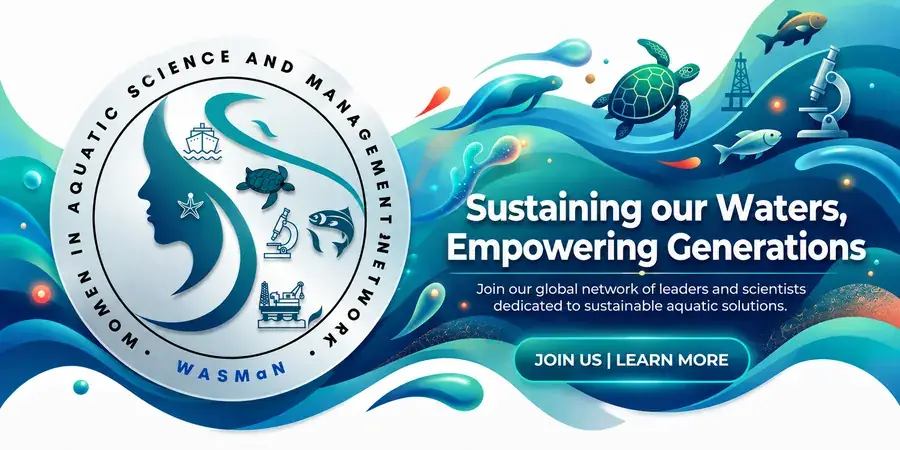
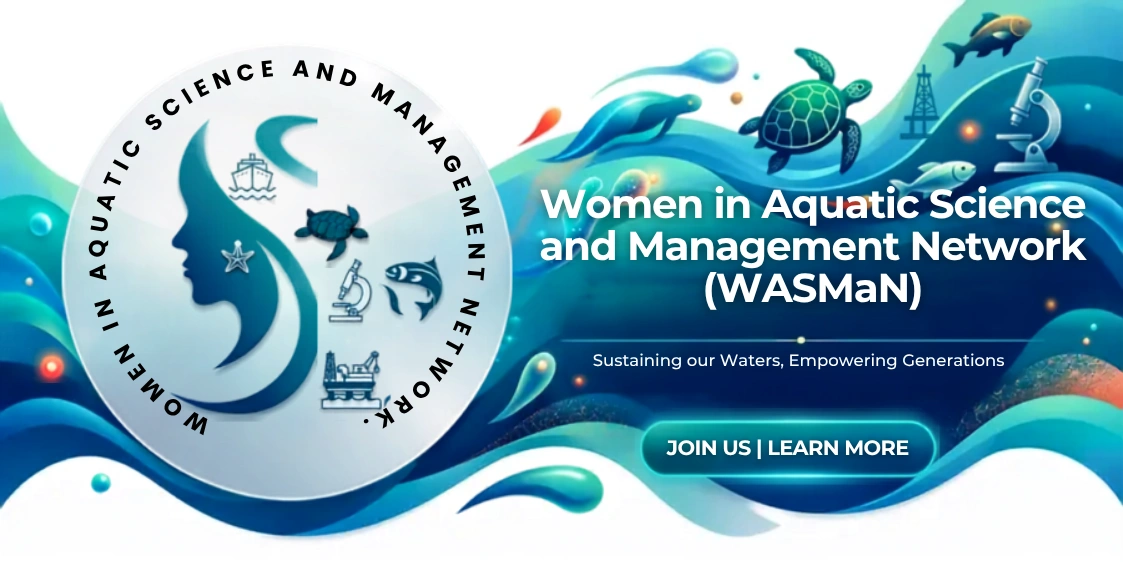
hero-carousel implementation

diff --git a/public/css/welcome.css b/public/css/welcome.css
@@ -94,6 +94,7 @@ img {
     width: 100%;
     min-height: 760px;
     overflow: hidden;
+   
 }
 
 .hero-picture {
@@ -102,13 +103,14 @@ img {
     display: block;
     width: 100%;
     height: 100%;
+    /* padding: 2%; */
 }
 
 .hero-image {
     width: 100%;
     height: 100%;
     max-width: none;
-    object-fit: cover;
+    /* object-fit: cover; */
     object-position: center;
     display: block;
 }
@@ -248,7 +250,7 @@ img {
 .swiper-slide {
    
 
-    border-radius: var(--radius-lg);
+    /* border-radius: var(--radius-lg); */
 
     overflow: hidden;
 }
@@ -317,7 +319,7 @@ img {
 
     margin-bottom: 22px;
 
-    border-radius: 17px;
+    /* border-radius: 17px; */
 
     background: rgba(79,210,196,0.15);
 

diff --git a/resources/views/welcome.blade.php b/resources/views/welcome.blade.php
@@ -49,19 +49,45 @@
 ========================================================= --}}
 
 <section class="hero-banner">
-    <picture class="hero-picture">
-        <source
-            media="(max-width: 650px)"
-            srcset="{{ versioned_asset('pics_vids/home_page_banner_mobile.webp') }}"
-            type="image/webp">
-        <img
-            src="{{ versioned_asset('pics_vids/home_page_banner.webp') }}"
-            alt="WASMaN — Women in Aquatic Science and Management Network"
-            class="hero-image"
-            fetchpriority="high"
-            loading="eager"
-            decoding="async">
-    </picture>
+   
+
+ <div class="swiper mySwiper">
+
+            <div class="swiper-wrapper">
+            
+            <div class="swiper-slide knowledge-card knowledge-card-light">
+                <picture>
+                    <source media="(max-width: 650px)" srcset="{{ versioned_asset('pics_vids/home_page_banner_mobile.webp') }}" type="image/webp">
+                    <img src="{{ versioned_asset('pics_vids/home_page_banner_mobile.webp') }}" alt="WASMaN knowledge bite graphic" class="wasman-logo" loading="lazy" decoding="async" width="1400" height="788">
+                </picture>
+            </div>
+
+            <div class="swiper-slide knowledge-card knowledge-card-light">
+                <picture>
+                    <source media="(max-width: 650px)" srcset="{{ versioned_asset('pics_vids/kn2_mobile.webp') }}" type="image/webp">
+                    <img src="{{ versioned_asset('pics_vids/kn2.webp') }}" alt="WASMaN knowledge bite graphic" class="wasman-logo" loading="lazy" decoding="async" width="1400" height="788">
+                </picture>
+            </div>
+
+            <div class="swiper-slide knowledge-card knowledge-card-soft">
+                <picture>
+                    <source media="(max-width: 650px)" srcset="{{ versioned_asset('pics_vids/kn3_mobile.webp') }}" type="image/webp">
+                    <img src="{{ versioned_asset('pics_vids/kn3.webp') }}" alt="WASMaN knowledge bite graphic" class="wasman-logo" loading="lazy" decoding="async" width="1400" height="788">
+                </picture>
+            </div>
+
+            </div>
+
+            <div class="swiper-button-prev"><</div>
+            <div class="swiper-button-next">></div>
+            <div class="swiper-pagination"></div>
+
+        </div>
+
+
+
+
+
 </section>
 
 
@@ -95,155 +121,12 @@
         </div>
 
 
-        <div class="swiper mySwiper">
+       
 
-            <div class="swiper-wrapper">
-
-                <div class="swiper-slide knowledge-card knowledge-card-primary">
-
-                    <!-- <div class="knowledge-card-content">
-
-                        <div class="knowledge-icon">
-                            <i class="fa-solid fa-book-open-reader"></i>
-                        </div>
-
-                        <span class="knowledge-kicker">
-                            Women In Science
-                        </span>
-
-                        <h3>
-                            Knowledge Bite
-                        </h3>
-
-                        <p>
-                            Women in aquatic science are making a difference.
-                            Through research, mentorship and community engagement,
-                            WASMaN members are promoting the sustainable management
-                            of aquatic resources and inspiring more girls and women
-                            to pursue careers in science and environmental conservation.
-                        </p>
-
-                    </div> -->
-<img src="{{ versioned_asset('pics_vids/kn1.svg') }}" alt="WASMaN knowledge and awareness graphic" class="wasman-logo" loading="lazy" decoding="async">
-
-
-                </div>
-
-
-                <div class="swiper-slide knowledge-card knowledge-card-light">
-
-                    <!-- <div class="knowledge-card-content">
-
-                        <div class="knowledge-icon">
-                            <i class="fa-solid fa-lightbulb"></i>
-                        </div>
-
-                        <span class="knowledge-kicker">
-                            Did You Know?
-                        </span>
-
-                        <h3>
-                            Coastal Ecosystems Matter
-                        </h3>
-
-                        <div class="fact-grid">
-
-                            <div class="fact-item">
-                                <i class="fa-solid fa-leaf"></i>
-                                <p>
-                                    Mangrove forests can store up to four times
-                                    more carbon per hectare than tropical rainforests.
-                                </p>
-                            </div>
-
-                            <div class="fact-item">
-                                <i class="fa-solid fa-shield-halved"></i>
-                                <p>
-                                    Healthy coastal ecosystems help reduce the
-                                    impact of storm surges and coastal erosion.
-                                </p>
-                            </div>
-
-                            <div class="fact-item">
-                                <i class="fa-solid fa-recycle"></i>
-                                <p>
-                                    Plastic waste can remain in marine environments
-                                    for hundreds of years.
-                                </p>
-                            </div>
-
-                        </div>
-
-                    </div> -->
-<picture>
-    <source media="(max-width: 650px)" srcset="{{ versioned_asset('pics_vids/kn2_mobile.webp') }}" type="image/webp">
-    <img src="{{ versioned_asset('pics_vids/kn2.webp') }}" alt="WASMaN knowledge bite graphic" class="wasman-logo" loading="lazy" decoding="async" width="1400" height="788">
-</picture>
-
-                </div>
-
-
-                <div class="swiper-slide knowledge-card knowledge-card-soft">
-
-                    <!-- <div class="knowledge-card-content">
-
-                        <div class="knowledge-icon">
-                            <i class="fa-solid fa-water"></i>
-                        </div>
-
-                        <span class="knowledge-kicker">
-                            Why Our Work Matters
-                        </span>
-
-                        <h3>
-                            Why WASMaN's Activities Matter
-                        </h3>
-
-                        <div class="matter-list">
-
-                            <div class="matter-item">
-                                <span>01</span>
-                                <p>
-                                    WASMaN helps increase the participation and leadership
-                                    of women in aquatic science and resource management.
-                                </p>
-                            </div>
-
-                            <div class="matter-item">
-                                <span>02</span>
-                                <p>
-                                    The network provides a platform for professionals,
-                                    researchers and students to collaborate and exchange ideas.
-                                </p>
-                            </div>
-
-                            <div class="matter-item">
-                                <span>03</span>
-                                <p>
-                                    Research and outreach activities contribute to sustainable
-                                    management of fisheries, coastal and marine resources.
-                                </p>
-                            </div>
-
-                        </div>
-
-                    </div> -->
-<picture>
-    <source media="(max-width: 650px)" srcset="{{ versioned_asset('pics_vids/kn3_mobile.webp') }}" type="image/webp">
-    <img src="{{ versioned_asset('pics_vids/kn3.webp') }}" alt="WASMaN knowledge bite graphic" class="wasman-logo" loading="lazy" decoding="async" width="1400" height="788">
-</picture>
-
-
-                </div>
-
-            </div>
-
-            <div class="swiper-button-prev"></div>
-            <div class="swiper-button-next"></div>
-            <div class="swiper-pagination"></div>
-
-        </div>
-
+        <div class="swiper-slide knowledge-card knowledge-card-primary">
+            <img src="{{ versioned_asset('pics_vids/kn1.svg') }}" alt="WASMaN knowledge and awareness graphic" class="wasman-logo" loading="lazy" decoding="async">
+        </div>        
+        
     </div>
 
 </section>

diff --git a/database/migrations/2026_09_14_180217_create_users_table.php b/database/migrations/2026_09_14_180217_create_users_table.php
@@ -6,20 +6,19 @@ use Illuminate\Support\Facades\Schema;
 
 return new class extends Migration
 {
-    /**
-     * Run the migrations.
-     */
     public function up(): void
     {
         Schema::create('users', function (Blueprint $table) {
             $table->id();
+            $table->string('name');
+            $table->string('email')->unique();
+            $table->timestamp('email_verified_at')->nullable();
+            $table->string('password');
+            $table->rememberToken();
             $table->timestamps();
         });
     }
 
-    /**
-     * Reverse the migrations.
-     */
     public function down(): void
     {
         Schema::dropIfExists('users');
